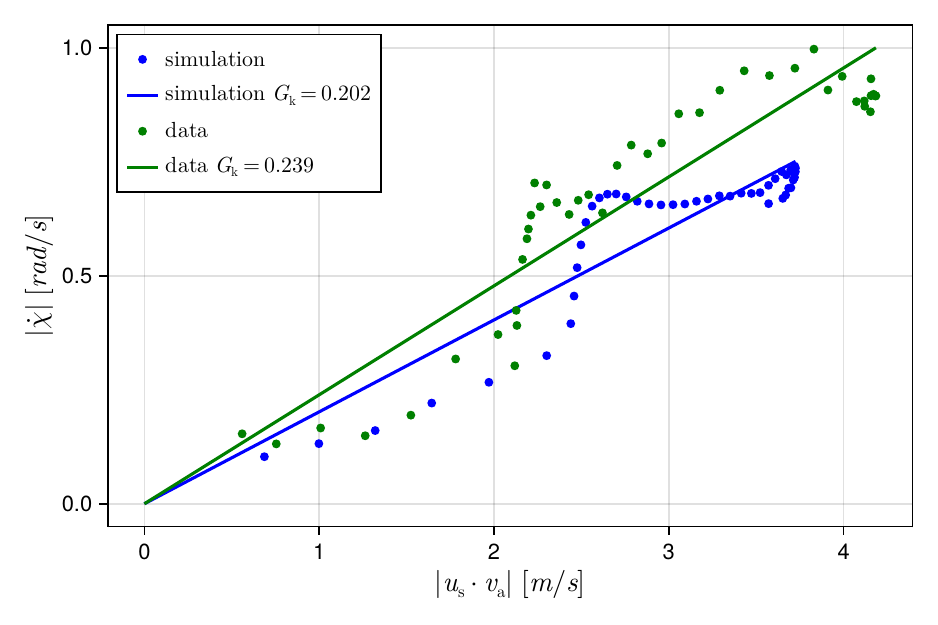
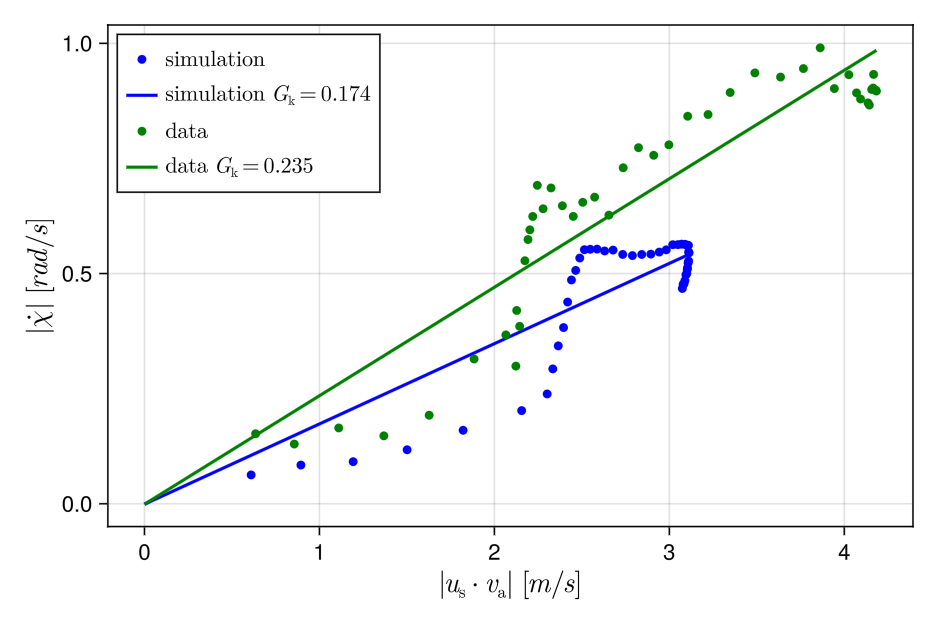
docs: redraw the README replay figures from the settled replay
Redraw the trajectory, panels and turn-rate figures of the README from the
particle replay of 15:36:29-15:36:38 with the velocity-holding settle.

The replay logged its applied steering only as set_steering, so the plots,
which read steering, drew the simulated steering as zero and could not fit
its turn-rate gain. Log it as steering, the applied value, as log_state!
documents.

diff --git a/CHANGELOG.md b/CHANGELOG.md
@@ -34,6 +34,10 @@
   released wherever the swing ended; the particle replay of 15:36:29–15:36:38 lost
   4 m/s of apparent wind in its first second. Settled states of the course hold carry
   `_holdcourse` in their cache name, so the old ones are no longer loaded.
+- BREAKING: `examples/flight_replay.jl` logs the steering it applies as `steering`, the
+  applied value, not as `set_steering`, so the replay plots draw the simulated steering
+  and fit its turn-rate gain again. The README's replay figures are redrawn from this
+  run.
 - `load_flight_data` skips entries of the `ekf_output` and `flight_data` groups that
   are not datasets instead of failing on them.
 - `get_row_at_distance` no longer boxes its index inside the field generator.

diff --git a/README.md b/README.md
@@ -122,7 +122,7 @@ line is the open-loop simulation** and the **dotted line is the flight data**.
 
 ```julia
 plots.trajectory      # flight path, colored by kite speed
-plots.panels          # u_s, F_t, v_app, χ time series
+plots.panels          # u_s, F_t, v_app, l_t, χ time series
 plots.yaw_fig_course  # turn rate vs |u_s · v_a|, with least-squares G_k fit
 plots.twist[7182]     # spanwise twist vs photogrammetry, keyed by video frame
 ```
